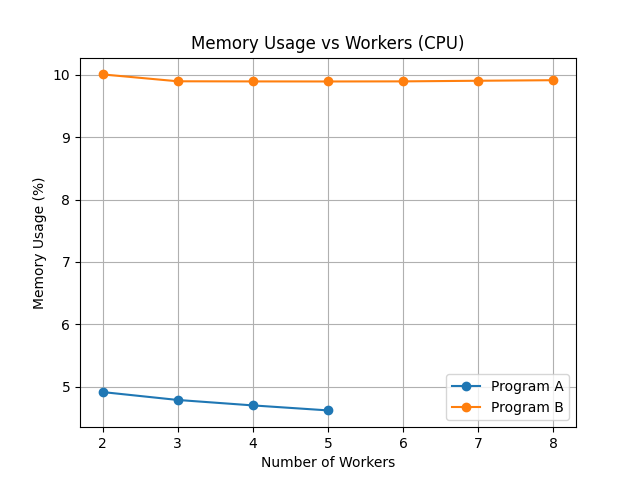
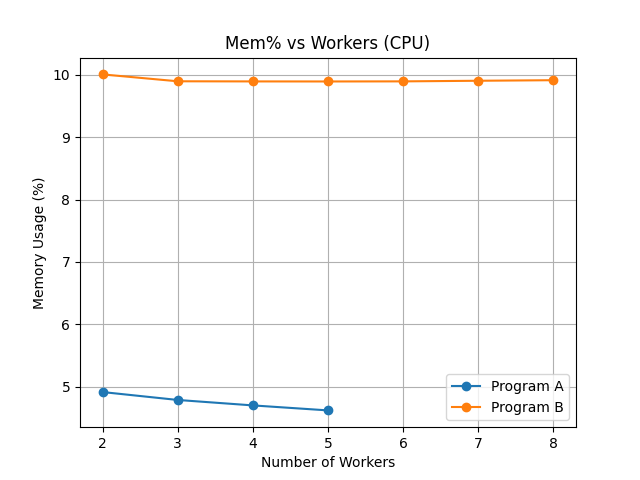
PA01: Graphs plots added

Changed region(s): [[0.2812, 0.0625, 0.7188, 0.125]]

diff --git a/src/MT25036_Part_C_Plot.py b/src/MT25036_Part_C_Plot.py
@@ -21,13 +21,13 @@ plt.bar(x - width/2, cpu_A, width, label='Program A')
 plt.bar(x + width/2, cpu_B, width, label='Program B')
 
 plt.xticks(x, functions)
-plt.xlabel("Workload")
+plt.xlabel("Functions")
 plt.ylabel("CPU Utilization (%)")
-plt.title("CPU Utilization Comparison (Part C, 2 Workers)")
+plt.title("CPU% Comparison (2 Workers)")
 plt.legend()
 plt.grid(axis='y')
 
-plt.savefig("./plots/Part-C/cpu_util_comparison.png")
+plt.savefig("./plots/Part-C/CPU_percentage_comparison.png")
 plt.close()
 
 
@@ -40,13 +40,13 @@ plt.bar(x - width/2, mem_A, width, label='Program A')
 plt.bar(x + width/2, mem_B, width, label='Program B')
 
 plt.xticks(x, functions)
-plt.xlabel("Workload")
+plt.xlabel("Functions")
 plt.ylabel("Memory Usage (%)")
-plt.title("Memory Utilization Comparison (Part C, 2 Workers)")
+plt.title("Mem% Comparison (2 Workers)")
 plt.legend()
 plt.grid(axis='y')
 
-plt.savefig("./plots/Part-C/mem_util_comparison.png")
+plt.savefig("./plots/Part-C/mem_percentage_comparison.png")
 plt.close()
 
 
@@ -59,11 +59,31 @@ plt.bar(x - width/2, disk_A, width, label='Program A')
 plt.bar(x + width/2, disk_B, width, label='Program B')
 
 plt.xticks(x, functions)
-plt.xlabel("Workload")
+plt.xlabel("Functions")
 plt.ylabel("Disk Utilization (%)")
-plt.title("Disk Utilization Comparison (Part C, 2 Workers)")
+plt.title("Disk% Comparison (2 Workers)")
 plt.legend()
 plt.grid(axis='y')
 
-plt.savefig("./plots/Part-C/disk_util_comparison.png")
+plt.savefig("./plots/Part-C/disk_percentage_comparison.png")
+plt.close()
+
+programs = ['A', 'B']
+
+for func in ['cpu', 'mem', 'io']:
+    times = []
+    for prog in programs:
+        val = df[(df['Program'] == prog) & (df['Function'] == func)]['Exec_Time_sec'].values
+        times.append(val[0] if len(val) > 0 else 0)
+
+    plt.plot(programs, times, marker='o', label=func.upper())
+
+plt.xlabel("Program")
+plt.ylabel("Execution Time (sec)")
+plt.title("Execution Time vs Program (Part C)")
+plt.legend()
+plt.grid(True)
+
+# Save plot
+plt.savefig("./plots/Part-C/exec_time_vs_program.png")
 plt.close()

diff --git a/src/MT25036_Part_B_Plot.py b/src/MT25036_Part_B_Plot.py
@@ -20,7 +20,7 @@ for func in functions:
     plt.legend()
     plt.grid(True)
     
-    plt.savefig(f"./plots/Part-D/exec_time_{func}.png")
+    plt.savefig(f"./plots/Part-D/execution_time_{func}.png")
     plt.close()
 
 
@@ -32,11 +32,11 @@ for prog in ['A', 'B']:
 
 plt.xlabel("Number of Workers")
 plt.ylabel("CPU Utilization (%)")
-plt.title("CPU Utilization vs Workers (CPU workload)")
+plt.title("CPU% vs Workers (CPU)")
 plt.legend()
 plt.grid(True)
 
-plt.savefig("./plots/Part-D/cpu_util_cpu_workload.png")
+plt.savefig("./plots/Part-D/cpu_percentage.png")
 plt.close()
 
 
@@ -48,11 +48,11 @@ for prog in ['A', 'B']:
 
 plt.xlabel("Number of Workers")
 plt.ylabel("Disk Utilization (%)")
-plt.title("Disk Utilization vs Workers (IO workload)")
+plt.title("Disk% vs Workers (IO)")
 plt.legend()
 plt.grid(True)
 
-plt.savefig("./plots/Part-D/disk_util_io.png")
+plt.savefig("./plots/Part-D/disk_percentage_io.png")
 plt.close()
 
 
@@ -66,7 +66,7 @@ for func in functions:
 
     plt.xlabel("Number of Workers")
     plt.ylabel("Memory Usage (%)")
-    plt.title(f"Memory Usage vs Workers ({func.upper()})")
+    plt.title(f"Mem% vs Workers ({func.upper()})")
     plt.legend()
     plt.grid(True)
 
